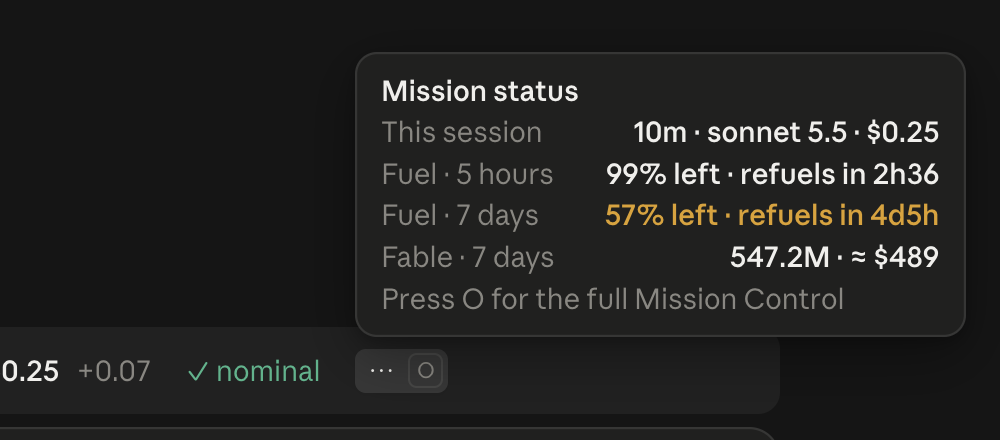
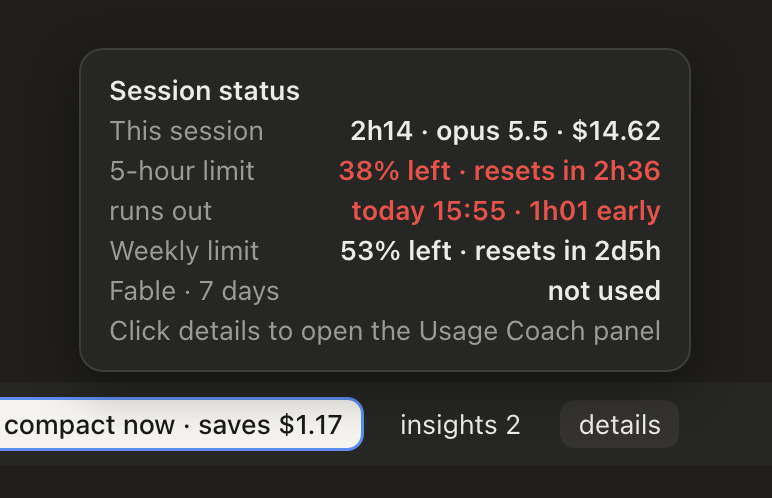
docs: refresh the screenshots for Usage Coach
New captures of the strip, its hover cards and all five pane tabs, drawn
by the mod's own code with demo data, and the overview image rebuilt
from them. The old Mission Control captures are removed.

diff --git a/docs/overview.html b/docs/overview.html
@@ -91,7 +91,7 @@ pre { margin: 0; background: var(--bg-2); border: 1px solid var(--line); border-
     <p class="lede">See where your tokens go, and the one change that saves the most right now. One strip above the prompt, one side pane, and an automatic compact before the prompt cache expires.</p>
     <div class="hero-strip">
       <img class="shot" src="img/strip.png" alt="The Usage Coach strip above the Claude Code prompt">
-      <span class="caption">The strip, as it shows in Claude: context · prompt cache · usage limits for 5 hours and 7 days · session cost · suggestion · insights · details</span>
+      <span class="caption">The strip above the prompt (demo data): context · prompt cache · usage limits for 5 hours and 7 days · session cost · suggestion · insights · details</span>
     </div>
   </header>
 
@@ -116,9 +116,9 @@ pre { margin: 0; background: var(--bg-2); border: 1px solid var(--line); border-
       <h2>Every number explains itself</h2>
     </div>
     <div class="tips">
-      <div class="tip"><img class="shot" src="img/tip-payload.png" alt="Context tooltip"><p><b>Context.</b> How much every message sends, and what it is made of.</p></div>
-      <div class="tip"><img class="shot" src="img/tip-orbit.png" alt="Prompt cache tooltip"><p><b>Prompt cache.</b> The exact time the cache is valid until.</p></div>
-      <div class="tip"><img class="shot" src="img/tip-fuel.png" alt="Usage limit tooltip"><p><b>Usage limits.</b> Usage left, time left in the window, when it resets, and when it runs out at this pace.</p></div>
+      <div class="tip"><img class="shot" src="img/tip-context.png" alt="Context tooltip"><p><b>Context.</b> How much every message sends, and what it is made of.</p></div>
+      <div class="tip"><img class="shot" src="img/tip-cache.png" alt="Prompt cache tooltip"><p><b>Prompt cache.</b> The exact time the cache is valid until.</p></div>
+      <div class="tip"><img class="shot" src="img/tip-limit.png" alt="Usage limit tooltip"><p><b>Usage limits.</b> Usage left, time left in the window, when it resets, and when it runs out at this pace.</p></div>
       <div class="tip"><img class="shot" src="img/tip-status.png" alt="Session status card"><p><b>Session status.</b> The whole picture in one card, Fable included.</p></div>
     </div>
   </section>
@@ -129,10 +129,12 @@ pre { margin: 0; background: var(--bg-2); border: 1px solid var(--line); border-
       <h2>Five tabs, one question: where did it go?</h2>
     </div>
     <div class="tabs">
-      <div class="tab"><div class="t"><span class="n">1</span><h3>Suggestions</h3></div><p>Every change worth making now, ranked by money saved. Compact now works even mid-answer: it is queued and runs when Claude finishes.</p><img class="shot" src="img/maneuvers.png" alt="Suggestions tab"></div>
-      <div class="tab"><div class="t"><span class="n">2</span><h3>Context</h3></div><p>What every message sends, by Claude's own categories, and which MCP servers go unused but are still sent with every message.</p><img class="shot" src="img/payload.png" alt="Context tab"></div>
-      <div class="tab"><div class="t"><span class="n">3</span><h3>Session</h3></div><p>The cost of each message and of each task in this session, which were mostly subagents, and which came after the cache expired.</p><img class="shot" src="img/flight-log.png" alt="Session tab"></div>
-      <div class="tab"><div class="t"><span class="n">4</span><h3>History</h3></div><p>The last 7 days across your projects: tokens, cost at list prices, cache share, who spent it, the change against the week before, and lessons to apply.</p><img class="shot" src="img/history.png" alt="History tab"></div>
+      <div class="tab"><div class="t"><span class="n">1</span><h3>Suggestions</h3></div><p>Every change worth making now, ranked by money saved. Compact now works even mid-answer: it is queued and runs when Claude finishes.</p><img class="shot" src="img/pane-suggestions.png" alt="Suggestions tab"></div>
+      <div class="tab"><div class="t"><span class="n">2</span><h3>Context</h3></div><p>What every message sends, by Claude's own categories, and which MCP servers go unused but are still sent with every message.</p><img class="shot" src="img/pane-context.png" alt="Context tab"></div>
+      <div class="tab"><div class="t"><span class="n">3</span><h3>Session</h3></div><p>The cost of each message and of each task in this session, which were mostly subagents, and which came after the cache expired.</p><img class="shot" src="img/pane-session.png" alt="Session tab"></div>
+      <div class="tab"><div class="t"><span class="n">4</span><h3>History</h3></div><p>The last 7 days across your projects: tokens, cost at list prices, cache share, who spent it, the change against the week before, and lessons to apply.</p><img class="shot" src="img/pane-history.png" alt="History tab"></div>
+      <div class="tab"><div class="t"><span class="n">5</span><h3>Insights</h3></div><p>What needs you right now: a usage limit that runs out before it resets, or a step Claude keeps failing. Then whether the model fits the work, your week against the one before, and habits that keep sessions cheap.</p><img class="shot" src="img/pane-insights.png" alt="Insights tab"></div>
+      <div class="tab"><div class="t"><span class="n">↑</span><h3>Today, on every tab</h3></div><p>Three numbers above the tabs: today's cost across sessions, the 5-hour limit with when it runs out at this pace, and what Usage Coach's compactions saved over 7 days. The welcome card explains the strip the first time.</p></div>
     </div>
   </section>
 
